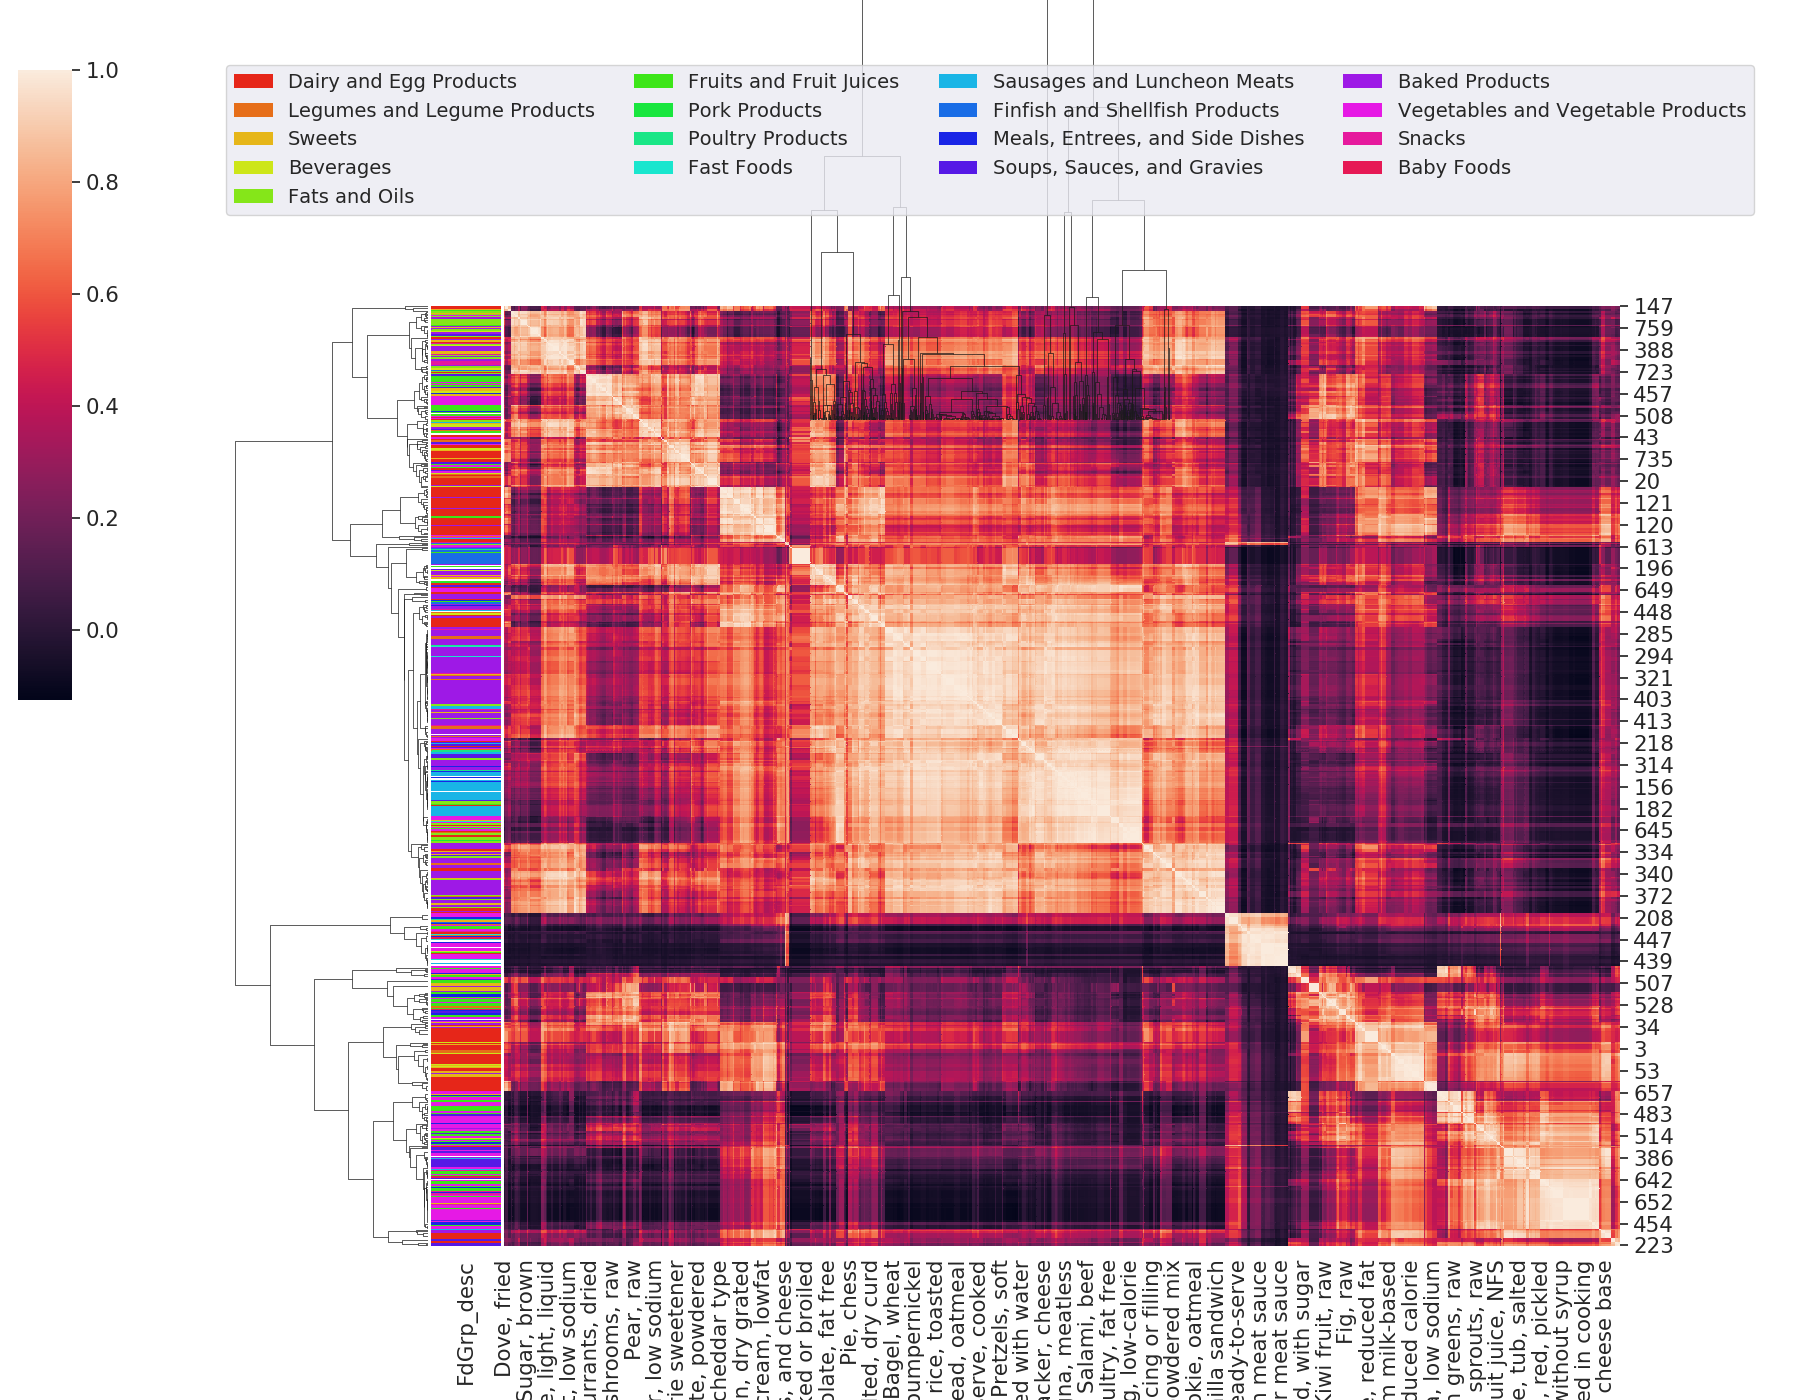
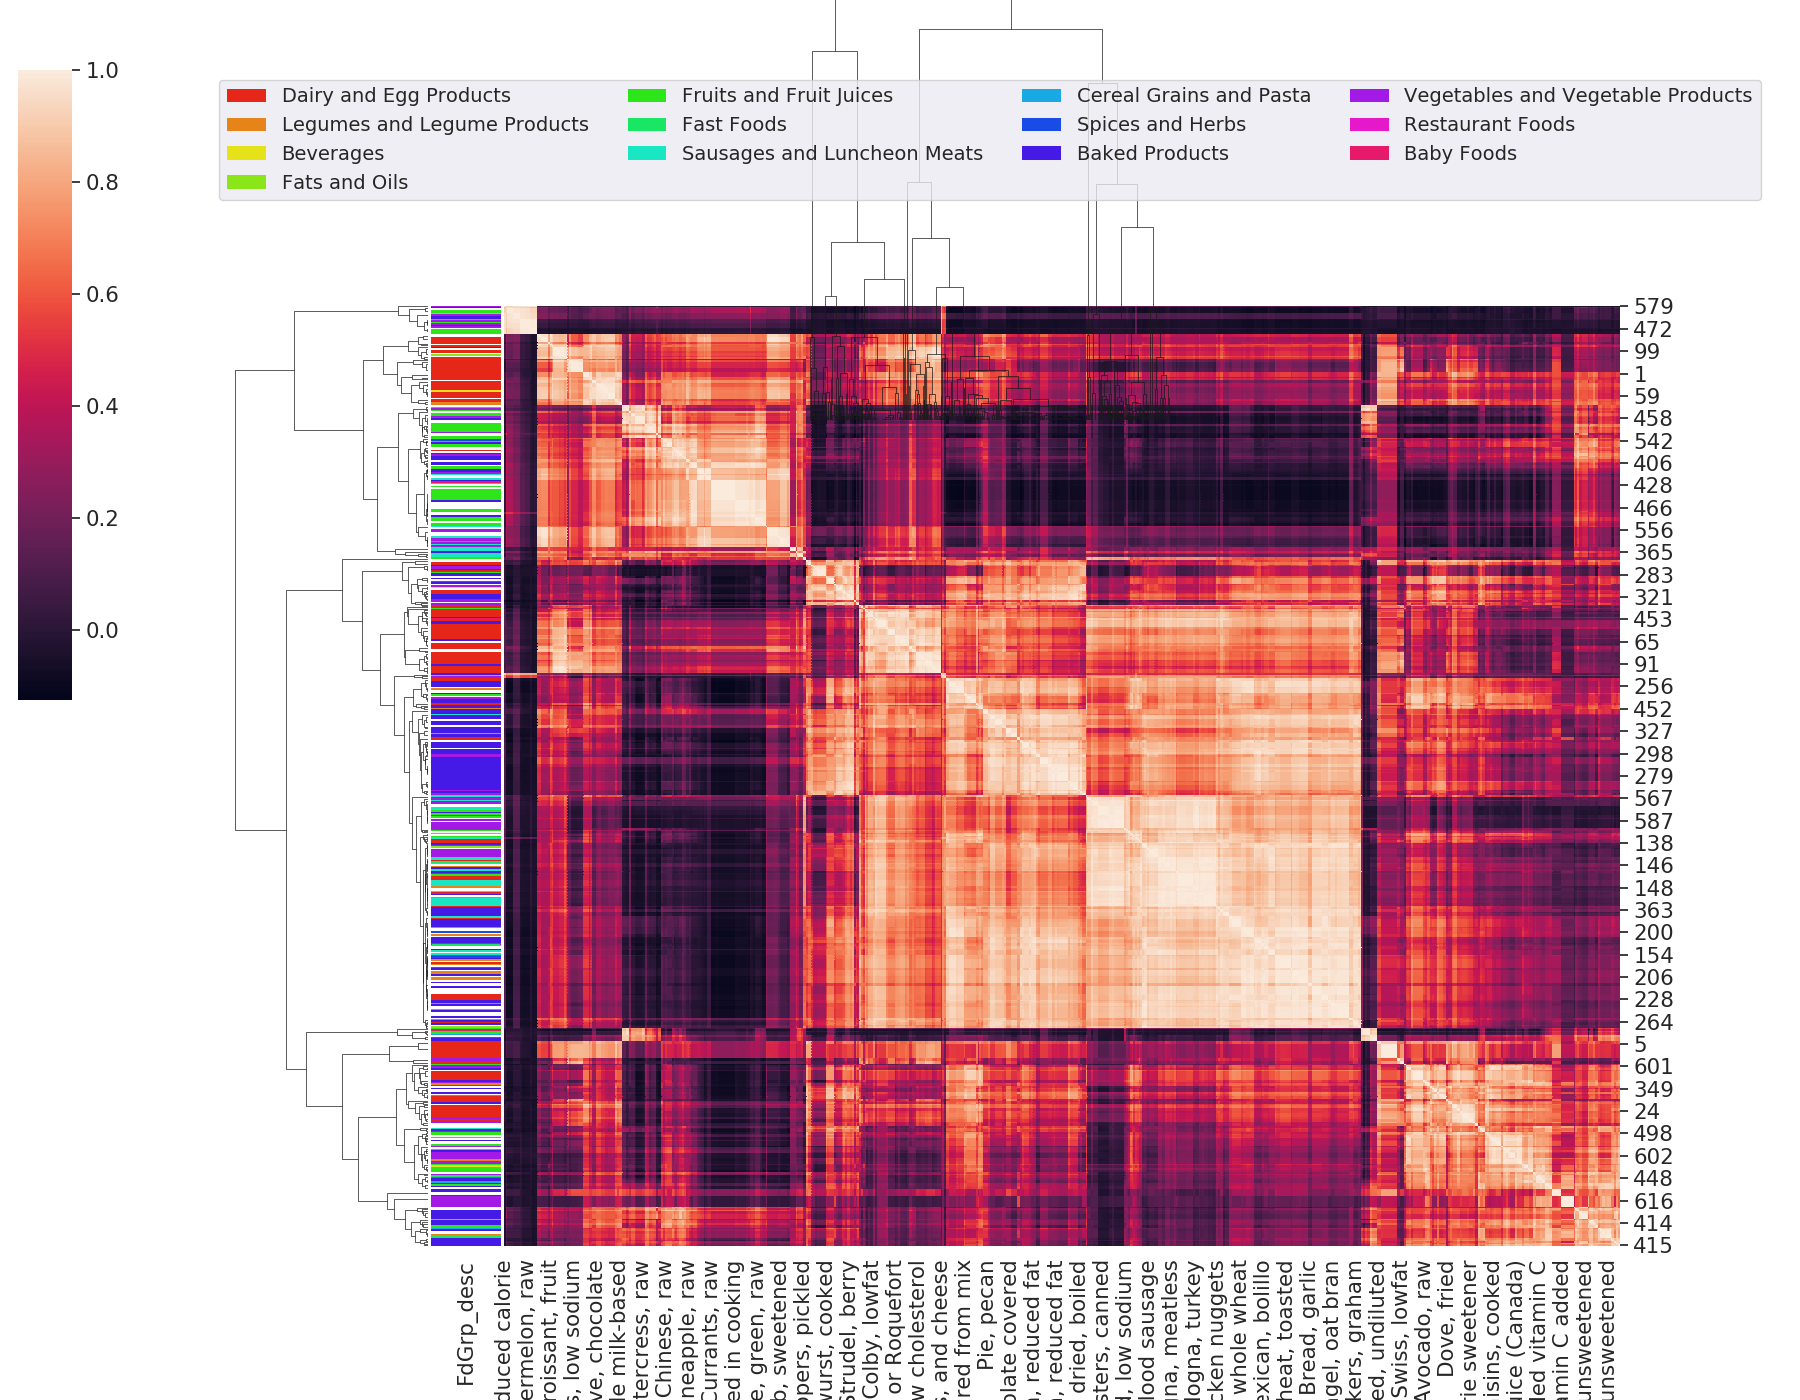
Add smaller dataset and naive model

diff --git a/Machine_Learning/ml_code.py b/Machine_Learning/ml_code.py
@@ -128,7 +128,7 @@ def get_df_by_features(df, features):
     return new_df
 
 
-def linear_regression_by_features(ml_df, features, pic_name):
+def linear_regression_by_features(ml_df, features, pic_name, dir):
     """
     this function performs linear regression learning by certain features.
     :param ml_df: the data
@@ -138,10 +138,10 @@ def linear_regression_by_features(ml_df, features, pic_name):
     """
     filter_df = get_df_by_features(ml_df, features)
     X_train, X_test, y_train, y_test = get_train_and_test(filter_df)
-    linear_regression.predict(X_train, X_test, y_train, y_test, features, pic_name)
+    linear_regression.predict(X_train, X_test, y_train, y_test, features, pic_name, dir)
 
 
-def learn(ml_df, pic_name=""):
+def learn(ml_df, pic_name="", dir=""):
     """
     THe function creates train and test and
      calls the learning models to predict
@@ -163,44 +163,53 @@ def learn(ml_df, pic_name=""):
     features.remove('Food Description in 1994-96 CSFII')
     features.remove('FdGrp_desc')
 
+    # Plot_output.plot_two_cols(x='Carbohydrt_(g)', y='GI Value', df=ml_df, pic_name="carbo_vs_gi" + pic_name)
+
     pic_name = "_" + pic_name
 
-    # Plot_output.plot_two_cols(x='Carbohydrt_(g)', y='GI Value', df=ml_df, pic_name="carbo_vs_gi" + pic_name)
+    ##########################################################
+    # naive model
+    ##########################################################
+
+    print("Naive model:\n")
+    median = ml_df["GI Value"].mean()
+    predict = [median] * len(X_test)
+    Plot_output.plot_graph(X_test, y_test, predict, "naive_model", dir)
 
     ##########################################################
     # decision tree
     ##########################################################
 
-    print("Decision tree model:\n")
-    decision_tree.predict(X_train, X_test, y_train, y_test, features, 'Decision_tree_new_test' + pic_name)
+    # print("\n\nDecision tree model:\n")
+    # decision_tree.predict(X_train, X_test, y_train, y_test, features, 'Decision_tree_new_test' + pic_name, dir)
 
     ##########################################################
     # linear regression
     ##########################################################
 
-    print("\n\nLinear regression model:\n")
-    linear_regression_by_features(ml_df, ['Carbohydrt_(g)'], 'LR_carbo_new_test' + pic_name)
-    linear_regression_by_features(ml_df,['Carbohydrt_(g)', 'Sugar_Tot_(g)'], 'LR_carbo_sugar_new_test' + pic_name)
-    linear_regression_by_features(ml_df,['Carbohydrt_(g)', 'Lipid_Tot_(g)'], 'LR_carbo_lipid_new_test'+ pic_name)
-    linear_regression_by_features(ml_df,['Carbohydrt_(g)', 'Lipid_Tot_(g)','Protein_(g)', 'Fiber_TD_(g)', 'Sugar_Tot_(g)'],
-                                  'LR_carbo_lipid_pro_fibe_sug_new_test'+ pic_name)
+    # print("\n\nLinear regression model:\n")
+    # linear_regression_by_features(ml_df, ['Carbohydrt_(g)'], 'LR_carbo_new_test' + pic_name, dir)
+    # linear_regression_by_features(ml_df,['Carbohydrt_(g)', 'Sugar_Tot_(g)'], 'LR_carbo_sugar_new_test' + pic_name, dir)
+    # linear_regression_by_features(ml_df,['Carbohydrt_(g)', 'Lipid_Tot_(g)'], 'LR_carbo_lipid_new_test'+ pic_name, dir)
+    # linear_regression_by_features(ml_df,['Carbohydrt_(g)', 'Lipid_Tot_(g)','Protein_(g)', 'Fiber_TD_(g)', 'Sugar_Tot_(g)'],
+    #                               'LR_carbo_lipid_pro_fibe_sug_new_test'+ pic_name, dir)
 
     # ##########################################################
     # # elastic net
     # ##########################################################
 
-    print("\n\nElastic net model:\n")
-    print("features: ", list(ml_df.columns.values))
-    elastic_net.predict(X_train, X_test, y_train, y_test, features, "Elastic_net_new_test" + pic_name)
+    # print("\n\nElastic net model:\n")
+    # print("features: ", list(ml_df.columns.values))
+    # elastic_net.predict(X_train, X_test, y_train, y_test, features, "Elastic_net_new_test" + pic_name, dir)
 
     ##########################################################
     # random forest
     ##########################################################
 
-    print("\n\nRandom Forest model:\n")
-    features.append(('FdGrp_desc'))
-    random_forest.predict(RF_X_train, RF_X_test, RF_y_train, RF_y_test, features,
-                          'RF_variable_importance_new_test_fg' + pic_name, 'Random_Forest_new_test_fg'+ pic_name)
+    # print("\n\nRandom Forest model:\n")
+    # features.append(('FdGrp_desc'))
+    # random_forest.predict(RF_X_train, RF_X_test, RF_y_train, RF_y_test, features,
+    #                       'RF_variable_importance_new_test_fg' + pic_name, 'Random_Forest_new_test_fg'+ pic_name, dir)
 
 
 if __name__ == '__main__':

diff --git a/Machine_Learning/Plot_output.py b/Machine_Learning/Plot_output.py
@@ -11,7 +11,17 @@ font = {'family': 'serif',
         }
 
 
-def plot_graph(X_test, y_test, predict, pic_name, coefficients_str=""):
+def plot_graph(X_test, y_test, predict, pic_name, dir, coefficients_str=""):
+    if not os.getcwd().__contains__("Graphs & Photos"):
+        os.chdir(os.getcwd()[:os.getcwd().index("Excel_files")] + "Graphs & Photos")
+
+    if dir != "":
+        path_dir = "./" + dir
+
+        if not os.getcwd().__contains__(dir):
+            if (not os.path.isdir(path_dir)):
+                os.mkdir(dir)
+            os.chdir(dir)
 
     plt.clf()
     plt.figure(figsize=(20, 13))
@@ -31,7 +41,7 @@ def plot_graph(X_test, y_test, predict, pic_name, coefficients_str=""):
     if coefficients_str == "":
         plt.xlabel('Carbohydrt' + '\n\n' +
                    'MAE = ' + str("%.3f" % mean_absolute_error(y_test, predict)) +
-                   ' MSE = ' + str(sklearn.metrics.mean_squared_error(y_test, predict)) +
+                   ' MSE = ' + str("%.3f" % sklearn.metrics.mean_squared_error(y_test, predict)) +
                     ' R2 = ' + str("%.3f" % sklearn.metrics.r2_score(y_test, predict)),
                     fontsize = 20)
     else:
@@ -48,7 +58,17 @@ def plot_graph(X_test, y_test, predict, pic_name, coefficients_str=""):
         os.chdir(os.getcwd()[:os.getcwd().index("Excel_files")] + "Graphs & Photos")
     plt.savefig(pic_name + '.png')
 
-def plot_coefficients(coefficients_str, pic_name):
+def plot_coefficients(coefficients_str, pic_name, dir):
+    if dir != "":
+        path_dir = "./" + dir
+        if not os.getcwd().__contains__("Graphs & Photos"):
+            os.chdir(os.getcwd()[:os.getcwd().index("Excel_files")] + "Graphs & Photos")
+
+        if not os.getcwd().__contains__(dir):
+            if (not os.path.isdir(path_dir)):
+                os.mkdir(dir)
+            os.chdir(dir)
+
     plt.clf()
 
     fig = plt.figure(figsize=(5, 12))

diff --git a/Machine_Learning/decision_tree.py b/Machine_Learning/decision_tree.py
@@ -15,7 +15,7 @@ from Machine_Learning import Plot_output
 
 
 
-def predict(X_train, X_test, y_train, y_test, labels, pic_name):
+def predict(X_train, X_test, y_train, y_test, labels, pic_name, dir):
     simple_model = DecisionTreeRegressor(max_depth=10)
     simple_model.fit(X_train, y_train)
     simple_predict = simple_model.predict(X_test)
@@ -44,13 +44,14 @@ def predict(X_train, X_test, y_train, y_test, labels, pic_name):
                     filled=True, rounded=True,
                     special_characters=False)
     graph = pydotplus.graph_from_dot_data(dot_data.getvalue())
-    os.chdir(os.getcwd()[:os.getcwd().index("Excel_files")] + "Graphs & Photos")
+    if not os.getcwd().__contains__("Graphs & Photos"):
+        os.chdir(os.getcwd()[:os.getcwd().index("Excel_files")] + "Graphs & Photos")
 
     graph.set_size('"45,20!"')
 
     graph.write_png('DT nodes new test.png')
 
-    Plot_output.plot_graph(X_test, y_test, cv_predict, pic_name)
+    Plot_output.plot_graph(X_test, y_test, cv_predict, pic_name, dir)
 
 
 

diff --git a/Machine_Learning/elastic_net.py b/Machine_Learning/elastic_net.py
@@ -4,7 +4,7 @@ from sklearn.metrics import mean_absolute_error
 from Machine_Learning import Plot_output
 
 
-def predict(X_train, X_test, y_train, y_test, features, pic_name):
+def predict(X_train, X_test, y_train, y_test, features, pic_name, dir):
     model = ElasticNetCV(cv=4)
     model.fit(X_train, y_train)
 
@@ -25,5 +25,5 @@ def predict(X_train, X_test, y_train, y_test, features, pic_name):
 
     print("coef: ", coefficients_str)
 
-    Plot_output.plot_coefficients(coefficients_str, pic_name=pic_name)
-    Plot_output.plot_graph(X_test, y_test, predict, pic_name)
+    Plot_output.plot_coefficients(coefficients_str, pic_name=pic_name, dir=dir)
+    Plot_output.plot_graph(X_test, y_test, predict, pic_name, dir)

diff --git a/Machine_Learning/improve_ml_code.py b/Machine_Learning/improve_ml_code.py
@@ -72,6 +72,14 @@ def run_without_fill_sugar(full_df):
 
     ml_code.learn(no_sugar_df, pic_name="no_none_sugar")
 
+def learn_smaller_dataset(df):
+    indexes = df.sample(frac=.50).index
+    df = df.drop(indexes)
+    df.reset_index(drop=True, inplace=True)
+
+    ml_code.learn(df, pic_name="smaller_dataset", dir="smaller_dataset")
+
+
 
 
 if __name__ == '__main__':
@@ -80,6 +88,7 @@ if __name__ == '__main__':
         os.chdir(os.getcwd()[:os.getcwd().index("Machine_Learning")] + "Excel_files")
     df = pd.read_excel("GI_USDA_full.xlsx")
 
-    run_without_fill_sugar(df)
+    # run_without_fill_sugar(df)
     # add_features_to_df(df)
     # run_on_big_food_group()
+    learn_smaller_dataset(df)

diff --git a/Machine_Learning/random_forest.py b/Machine_Learning/random_forest.py
@@ -137,7 +137,7 @@ import os
 from Machine_Learning import Plot_output
 
 
-def predict(X_train, X_test, y_train, y_test, lables, pic_name1, pic_name2):
+def predict(X_train, X_test, y_train, y_test, lables, pic_name1, pic_name2, dir):
     # rf = RandomForestRegressor(random_state=42)
     #
     # print("parameters currently in use by rnadom forest: ")
@@ -199,7 +199,7 @@ def predict(X_train, X_test, y_train, y_test, lables, pic_name1, pic_name2):
 
     plt.close()
 
-    Plot_output.plot_graph(X_test, y_test, cv_predictions, pic_name2)
+    Plot_output.plot_graph(X_test, y_test, cv_predictions, pic_name2, dir)
 
 
 

diff --git a/Machine_Learning/linear_regression.py b/Machine_Learning/linear_regression.py
@@ -29,7 +29,7 @@ def kf_cv(X_train, y_train, model):
     return model
 
 
-def predict(X_train, X_test, y_train, y_test, feaures, pic_name):
+def predict(X_train, X_test, y_train, y_test, feaures, pic_name, dir):
     linear_regression_model = linear_model.LinearRegression()
     linear_regression_model.fit(X_train, y_train)
 
@@ -47,4 +47,4 @@ def predict(X_train, X_test, y_train, y_test, feaures, pic_name):
 
     print(coefficients_str)
 
-    Plot_output.plot_graph(X_test, y_test, predict, pic_name, coefficients_str)
+    Plot_output.plot_graph(X_test, y_test, predict, pic_name, dir, coefficients_str)

diff --git a/Plot_Graphs/food_vs_food.py b/Plot_Graphs/food_vs_food.py
@@ -31,7 +31,7 @@ def plot_corr(gi_usda_df):
     # remove small food groups from df
     i = 0
     while i < len(gi_usda_df['FdGrp_desc'].value_counts()):
-        if gi_usda_df['FdGrp_desc'].value_counts()[i] <= 10:
+        if gi_usda_df['FdGrp_desc'].value_counts()[i] <= 50:
             fg = gi_usda_df['FdGrp_desc'].value_counts().index[i]
             gi_usda_df.drop(gi_usda_df[(gi_usda_df['FdGrp_desc'] == fg)].index, inplace=True)
             # print(gi_usda_df.shape)
